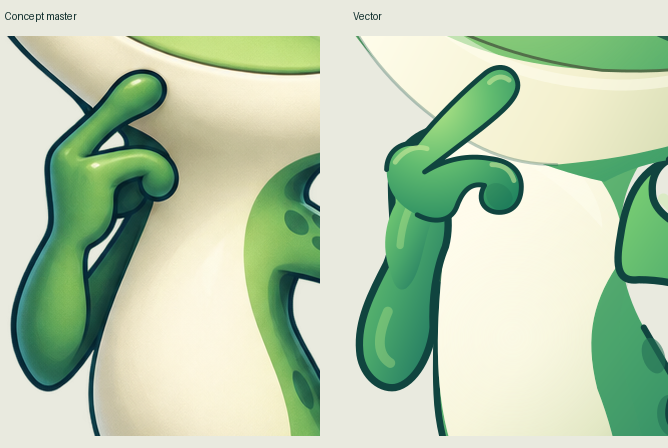
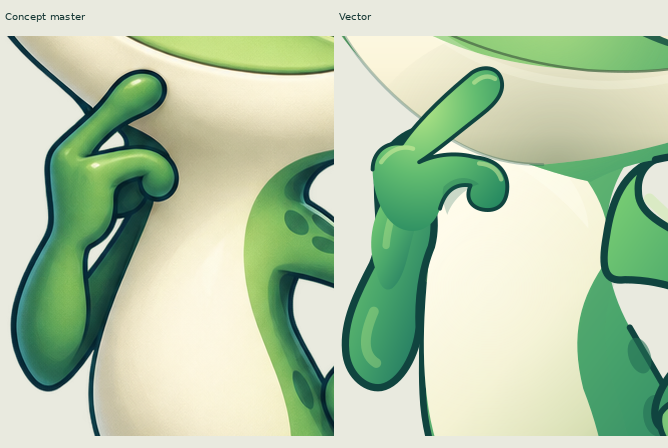
Improve frog anatomy and visual comparison evidence

diff --git a/assets/frog-example/index.html b/assets/frog-example/index.html
@@ -59,12 +59,12 @@
 <linearGradient id="head-fill" x1=".13" y1=".06" x2=".84" y2=".95"><stop stop-color="#c9ed8a"/><stop offset=".24" stop-color="#91d36f"/><stop offset=".64" stop-color="#5eb56b"/><stop offset="1" stop-color="#258d67"/></linearGradient>
     <linearGradient id="torso-fill" x1=".14" y1="0" x2=".9" y2="1"><stop stop-color="#7dc778"/><stop offset=".54" stop-color="#4aa56c"/><stop offset="1" stop-color="#217b61"/></linearGradient>
     <linearGradient id="limb-fill" x1="0" y1="0" x2=".94" y2="1"><stop stop-color="#82d575"/><stop offset=".53" stop-color="#49a66b"/><stop offset="1" stop-color="#176d60"/></linearGradient>
-    <linearGradient id="right-leg-fill" x1=".1" y1="0" x2=".9" y2="1"><stop stop-color="#2b8d63"/><stop offset=".5" stop-color="#4aa96c"/><stop offset="1" stop-color="#277a60"/></linearGradient>
+    <linearGradient id="right-leg-fill" x1=".1" y1="0" x2=".9" y2="1"><stop stop-color="#277e60"/><stop offset=".28" stop-color="#2e8563"/><stop offset=".72" stop-color="#4aa96c"/><stop offset="1" stop-color="#277a60"/></linearGradient>
     <linearGradient id="right-inner-contour" gradientUnits="userSpaceOnUse" x1="0" y1="690" x2="0" y2="825"><stop stop-color="#10443f" stop-opacity="0"/><stop offset=".58" stop-color="#10443f" stop-opacity=".22"/><stop offset="1" stop-color="#10443f" stop-opacity=".9"/></linearGradient>
-    <linearGradient id="cream-fill" gradientUnits="userSpaceOnUse" x1="345" y1="255" x2="650" y2="420"><stop stop-color="#fffdeb"/><stop offset=".53" stop-color="#f3f0ce"/><stop offset="1" stop-color="#c4d0a3"/></linearGradient>
+    <linearGradient id="cream-fill" gradientUnits="userSpaceOnUse" x1="0" y1="238" x2="0" y2="410"><stop stop-color="#fffdec"/><stop offset=".47" stop-color="#fbf5da"/><stop offset=".78" stop-color="#e9e4c4"/><stop offset="1" stop-color="#bec39e"/></linearGradient>
     <linearGradient id="belly-fill" gradientUnits="userSpaceOnUse" x1="392" y1="472" x2="571" y2="640"><stop stop-color="#fffbe9"/><stop offset=".45" stop-color="#f2f0cf"/><stop offset=".79" stop-color="#d4dcae"/><stop offset="1" stop-color="#a9bf8b"/></linearGradient>
-    <radialGradient id="eye-fill" cx=".36" cy=".32" r=".86"><stop stop-color="#fffef4"/><stop offset=".52" stop-color="#f8f5dc"/><stop offset="1" stop-color="#d8dcb7"/></radialGradient>
-    <radialGradient id="iris-fill" cx=".35" cy=".34" r=".75"><stop stop-color="#bce47b"/><stop offset=".55" stop-color="#78bb59"/><stop offset="1" stop-color="#346d4b"/></radialGradient>
+    <radialGradient id="eye-fill" cx=".33" cy=".34" r=".84"><stop stop-color="#fffef2"/><stop offset=".5" stop-color="#fff9df"/><stop offset=".82" stop-color="#e5ddbd"/><stop offset="1" stop-color="#a8bc86"/></radialGradient>
+    <linearGradient id="iris-left-fill" gradientUnits="userSpaceOnUse" x1="420" y1="160" x2="440" y2="236"><stop stop-color="#286746"/><stop offset=".33" stop-color="#77b54d"/><stop offset=".72" stop-color="#c4db49"/><stop offset="1" stop-color="#739940"/></linearGradient><linearGradient id="iris-right-fill" gradientUnits="userSpaceOnUse" x1="661" y1="229" x2="680" y2="303"><stop stop-color="#236848"/><stop offset=".34" stop-color="#73b049"/><stop offset=".76" stop-color="#c7db47"/><stop offset="1" stop-color="#72933f"/></linearGradient>
     <linearGradient id="lid-volume" x1="0" y1="0" x2="0" y2="1"><stop stop-color="#a5df8b"/><stop offset=".54" stop-color="#70bf75"/><stop offset="1" stop-color="#2a7959"/></linearGradient>
     <radialGradient id="head-relief" gradientUnits="userSpaceOnUse" cx="462" cy="233" r="328"><stop stop-color="#d4ee99" stop-opacity=".45"/><stop offset=".57" stop-color="#84c873" stop-opacity=".13"/><stop offset="1" stop-color="#115d52" stop-opacity=".55"/></radialGradient>
     <linearGradient id="left-crest-volume" gradientUnits="userSpaceOnUse" x1="352" y1="104" x2="459" y2="96"><stop stop-color="#0e594e" stop-opacity=".81"/><stop offset=".45" stop-color="#267d5e" stop-opacity=".46"/><stop offset="1" stop-color="#bde88b" stop-opacity="0"/></linearGradient>
@@ -76,7 +76,7 @@
     <radialGradient id="toe-fill" cx=".33" cy=".2" r=".82"><stop stop-color="#c4eb8b"/><stop offset=".31" stop-color="#83d17a"/><stop offset=".68" stop-color="#4dac6b"/><stop offset="1" stop-color="#1d755c"/></radialGradient>
     <radialGradient id="toe-shadow" cx=".48" cy=".15" r=".9"><stop stop-color="#0f6154" stop-opacity="0"/><stop offset=".52" stop-color="#175c50" stop-opacity=".08"/><stop offset="1" stop-color="#0c483f" stop-opacity=".42"/></radialGradient>
     <radialGradient id="knee-relief"><stop stop-color="#a8df80" stop-opacity=".65"/><stop offset=".55" stop-color="#74bf6e" stop-opacity=".23"/><stop offset="1" stop-color="#1e755d" stop-opacity="0"/></radialGradient>
-    <radialGradient id="belly-light" gradientUnits="userSpaceOnUse" cx="453" cy="540" r="252"><stop stop-color="#fffef1" stop-opacity=".9"/><stop offset=".47" stop-color="#fffef1" stop-opacity=".46"/><stop offset="1" stop-color="#fffef1" stop-opacity="0"/></radialGradient>
+    <radialGradient id="belly-light" gradientUnits="userSpaceOnUse" cx="445" cy="500" r="224"><stop stop-color="#fffef1" stop-opacity=".86"/><stop offset=".42" stop-color="#fffef1" stop-opacity=".4"/><stop offset="1" stop-color="#fffef1" stop-opacity="0"/></radialGradient><radialGradient id="crest-left-mass" gradientUnits="userSpaceOnUse" cx="344" cy="121" r="176"><stop stop-color="#06483f" stop-opacity=".91"/><stop offset=".39" stop-color="#155d46" stop-opacity=".82"/><stop offset=".75" stop-color="#2c8151" stop-opacity=".32"/><stop offset="1" stop-color="#7abe69" stop-opacity="0"/></radialGradient><linearGradient id="crest-left-rim" gradientUnits="userSpaceOnUse" x1="410" y1="37" x2="461" y2="137"><stop stop-color="#f0f7b0" stop-opacity=".55"/><stop offset=".44" stop-color="#cde98f" stop-opacity=".47"/><stop offset="1" stop-color="#c4e98d" stop-opacity="0"/></linearGradient><radialGradient id="snout-volume" gradientUnits="userSpaceOnUse" cx="501" cy="273" r="198"><stop stop-color="#d3ef91" stop-opacity=".47"/><stop offset=".42" stop-color="#a6d77e" stop-opacity=".28"/><stop offset="1" stop-color="#a6d77e" stop-opacity="0"/></radialGradient><linearGradient id="right-brow-depth" gradientUnits="userSpaceOnUse" x1="625" y1="187" x2="653" y2="269"><stop stop-color="#174e46"/><stop offset=".55" stop-color="#216b50"/><stop offset="1" stop-color="#3f9360"/></linearGradient><radialGradient id="jaw-chin-volume" gradientUnits="userSpaceOnUse" cx="501" cy="399" r="164"><stop stop-color="#586b4e" stop-opacity=".32"/><stop offset=".58" stop-color="#788964" stop-opacity=".13"/><stop offset="1" stop-color="#788964" stop-opacity="0"/></radialGradient><clipPath id="jaw-prototype-clip"><use href="#premium-jaw"/></clipPath>
     <filter id="ground-soft" x="-30%" y="-150%" width="160%" height="400%"><feGaussianBlur stdDeviation="14"/></filter>
     <path id="head-outline" d="M313 205 C341 181 352 148 366 106 C380 66 398 26 415 27 C437 26 462 76 483 126 C504 174 526 188 558 190 C606 193 652 158 692 159 C719 158 736 175 743 197 C750 221 735 242 718 262 C705 278 706 292 714 310 C722 333 711 350 690 368 C670 383 622 388 581 395 C557 399 541 406 528 413 C499 407 476 398 454 390 C426 379 397 366 374 345 C340 316 309 281 302 249 C298 230 301 218 313 205Z"/>
     <clipPath id="head-clip"><use href="#head-outline"/></clipPath>
@@ -144,7 +144,7 @@
         <path d="M619 935 Q629 944 633 954 M678 939 Q691 949 704 952 M720 916 Q739 916 752 922" fill="none" stroke="#d9f0a0" stroke-width="4.5" stroke-linecap="round" opacity=".5"/>
       </g>
       <path d="M611 877 C594 885 589 900 592 915 C596 931 609 939 610 949 C608 969 615 983 632 986 C651 989 666 973 664 957 C679 975 691 990 707 987 C729 985 744 960 736 942 C756 953 780 952 785 936 C789 922 770 908 745 903 C718 898 690 908 667 898 C646 888 629 873 611 877Z" fill="none" stroke="#10443f" stroke-width="5.4" stroke-linejoin="round"/>
-      <path d="M660 951 Q654 937 645 929 M735 948 Q725 938 716 934" fill="none" stroke="#1c5d50" stroke-width="3" stroke-linecap="round" opacity=".3"/>
+      <path d="M660 951 Q654 937 645 929 M690 916 C709 921 724 931 735 944" fill="none" stroke="#1c5d50" stroke-width="3" stroke-linecap="round" opacity=".4"/>
     </g>
   </g>
 
@@ -156,7 +156,7 @@
     <path d="M406 366 C398 404 402 457 397 491" fill="none" stroke="#b4e88f" stroke-width="10" stroke-linecap="round" opacity=".28"/>
     <path d="M403 348 C427 343 466 356 497 382 C528 408 547 439 542 476 C519 508 511 538 522 582 C541 631 547 677 537 698 C524 704 502 702 483 697 C440 688 413 665 402 626 C388 579 391 526 396 477 C395 415 394 368 403 348Z" fill="url(#belly-fill)"/>
     <path d="M413 379 C444 364 473 374 500 398 C519 416 527 439 526 451 C499 417 453 385 413 379Z" fill="#fffef1" opacity=".38"/>
-    <path d="M403 348 C427 343 466 356 497 382 C528 408 547 439 542 476 C519 508 511 538 522 582 C541 631 547 677 537 698 C524 704 502 702 483 697 C440 688 413 665 402 626 C388 579 391 526 396 477 C395 415 394 368 403 348Z" fill="url(#belly-light)" opacity=".64"/>
+    <path d="M403 348 C427 343 466 356 497 382 C528 408 547 439 542 476 C519 508 511 538 522 582 C541 631 547 677 537 698 C524 704 502 702 483 697 C440 688 413 665 402 626 C388 579 391 526 396 477 C395 415 394 368 403 348Z" fill="url(#belly-light)" opacity=".38"/>
     <path d="M542 479 C522 509 511 542 523 584 C542 631 552 672 540 701 C552 706 560 711 566 716 C571 669 561 626 549 586 C536 547 538 515 551 488Z" fill="#4f9d6a" opacity=".13"/>
     <g id="body-spots" fill="#226e55" opacity=".58"><ellipse cx="568" cy="555" rx="9" ry="15" transform="rotate(-18 568 555)"/><ellipse cx="582" cy="604" rx="11" ry="17" transform="rotate(-8 582 604)"/><ellipse cx="567" cy="647" rx="7" ry="11" transform="rotate(-22 567 647)"/><ellipse cx="449" cy="704" rx="7" ry="11"/><ellipse cx="466" cy="732" rx="9" ry="13"/></g>
   </g>
@@ -199,12 +199,12 @@
 
   <g id="premium-head" data-pivot-x="505" data-pivot-y="372">
     <use href="#head-outline" fill="url(#head-fill)"/>
-    <use href="#head-outline" fill="url(#head-relief)"/>
+    <use href="#head-outline" fill="url(#head-relief)"/><g clip-path="url(#head-clip)"><ellipse cx="501" cy="273" rx="212" ry="159" fill="url(#snout-volume)"/></g>
     <path d="M302 248 C298 230 301 218 313 205 C341 181 352 148 366 106 C380 66 398 26 415 27 C437 26 462 76 483 126 C504 174 526 188 558 190 C606 193 652 158 692 159 C719 158 736 175 743 197 C750 221 735 242 718 262 C705 278 706 292 714 310 C722 333 711 350 690 368 C663 388 616 387 581 395" fill="none" stroke="#103f3d" stroke-width="6" stroke-linecap="round" stroke-linejoin="round"/>
     <g clip-path="url(#head-clip)">
       <path d="M301 253 C332 178 349 87 404 30 C379 95 376 148 397 186 C370 200 338 229 301 253Z" fill="url(#left-crest-volume)"/>
       <path d="M555 192 C619 171 681 149 719 166 C749 179 753 220 718 268 C728 225 698 193 657 191 C618 191 583 202 555 192Z" fill="url(#right-crest-volume)"/>
-      <path d="M363 145 C377 93 407 41 425 40 C442 42 451 85 461 123 C432 92 401 111 379 173Z" fill="#d0ef8f" opacity=".35"/>
+      <ellipse cx="387" cy="122" rx="109" ry="151" fill="url(#crest-left-mass)" opacity=".96"/>
       <path d="M559 190 C618 164 673 149 704 161 C730 173 741 199 731 219 C696 184 639 180 573 205Z" fill="#d4ed8a" opacity=".42"/>
       <path d="M329 271 C348 326 395 360 434 376 L391 379 C349 347 309 305 301 264Z" fill="#155e55" opacity=".3"/>
       <path d="M689 254 C698 284 722 304 709 330 C695 357 657 369 619 377 L664 348 C690 323 681 289 689 254Z" fill="#145c51" opacity=".38"/>
@@ -212,33 +212,33 @@
     </g>
     <path d="M354 161 C363 126 382 102 407 96 C436 89 461 112 473 146 C452 120 434 111 410 114 C385 116 366 134 354 161Z" fill="#1b5f4b" opacity=".93"/>
     <path d="M356 173 C367 137 389 117 413 120 C439 123 459 143 464 169 C448 147 429 136 407 137 C384 138 368 153 356 173Z" fill="url(#lid-volume)" opacity=".95"/>
-    <path d="M546 270 C563 228 615 194 659 192 C692 190 723 209 731 240 C706 223 681 212 649 216 C604 221 571 242 546 270Z" fill="#1f684f" opacity=".92"/>
+    <path d="M546 270 C563 228 615 194 659 192 C692 190 723 209 731 240 C706 223 681 212 649 216 C604 221 571 242 546 270Z" fill="url(#right-brow-depth)" opacity=".97"/>
     <path d="M551 272 C572 236 617 212 654 212 C681 211 705 224 716 247 C688 229 666 225 638 228 C603 232 572 249 551 272Z" fill="url(#lid-volume)" opacity=".85"/>
     <g id="premium-eye-left" data-pivot-x="402" data-pivot-y="190">
       <path d="M349 177 C362 143 390 126 412 129 C446 132 464 164 462 199 C458 230 441 250 412 251 C384 251 361 233 352 211 C346 196 346 188 349 177Z" fill="#164e43" opacity=".88"/>
       <path d="M355 179 C366 149 388 137 409 138 C438 140 455 166 454 195 C453 223 436 246 413 247 C388 247 369 232 358 209 C353 198 351 188 355 179Z" fill="url(#eye-fill)"/>
-      <g id="premium-pupil-left"><ellipse cx="427" cy="200" rx="25" ry="39" fill="url(#iris-fill)"/><ellipse cx="435" cy="195" rx="19" ry="38" fill="#092f36"/><circle cx="430" cy="170" r="6.5" fill="#fff"/><circle cx="443" cy="220" r="2.5" fill="#d7efd4" opacity=".62"/></g>
+      <g id="premium-pupil-left"><ellipse cx="427" cy="200" rx="25" ry="39" fill="url(#iris-left-fill)"/><ellipse cx="435" cy="195" rx="19" ry="38" fill="#092f36"/><circle cx="430" cy="170" r="6.5" fill="#fff"/><circle cx="443" cy="220" r="2.5" fill="#d7efd4" opacity=".62"/></g>
       <path d="M353 179 C367 149 388 134 411 135 C437 137 453 157 456 177 C444 154 426 147 409 147 C383 147 364 161 353 179Z" fill="#4d9e62" opacity=".77"/>
       <path id="premium-lid-left" d="M350 185 C365 133 427 123 450 172 C442 173 432 178 421 185 C397 193 372 192 350 185Z" fill="#7ac77a" stroke="#175947" stroke-width="4" opacity="0"/>
     </g>
     <g id="premium-eye-right" data-pivot-x="608" data-pivot-y="253">
       <path d="M552 275 C570 234 618 210 662 214 C697 217 711 247 710 277 C707 305 678 316 639 312 C602 309 570 296 553 284Z" fill="#185044" opacity=".84"/>
       <path d="M560 273 C578 239 620 219 660 223 C687 227 701 249 700 274 C697 300 674 310 639 308 C604 305 576 292 561 280Z" fill="url(#eye-fill)"/>
-      <g id="premium-pupil-right"><ellipse cx="670" cy="267" rx="27" ry="38" fill="url(#iris-fill)"/><ellipse cx="679" cy="266" rx="20" ry="37" fill="#092f36"/><circle cx="669" cy="241" r="6.5" fill="#fff"/><circle cx="687" cy="285" r="2.5" fill="#d7efd4" opacity=".62"/></g>
+      <g id="premium-pupil-right"><ellipse cx="670" cy="267" rx="27" ry="38" fill="url(#iris-right-fill)"/><ellipse cx="679" cy="266" rx="20" ry="37" fill="#092f36"/><circle cx="669" cy="241" r="6.5" fill="#fff"/><circle cx="687" cy="285" r="2.5" fill="#d7efd4" opacity=".62"/></g>
       <path d="M554 275 C573 236 617 215 660 217 C685 218 704 232 707 251 C687 233 663 226 639 229 C601 233 573 251 554 275Z" fill="#3b9b62" opacity=".66"/>
       <path id="premium-lid-right" d="M559 274 C582 228 649 210 700 250 C666 253 627 263 594 277 C576 283 563 281 559 274Z" fill="#65b86e" stroke="#175947" stroke-width="4" opacity="0"/>
     </g>
     <path d="M354 181 C370 143 393 128 414 132 C437 135 451 151 458 177" fill="none" stroke="#153d3b" stroke-width="5.4" stroke-linecap="round" opacity=".82"/>
     <path d="M558 274 C583 231 629 214 659 218 C681 220 697 233 703 255" fill="none" stroke="#153d3b" stroke-width="5.4" stroke-linecap="round" opacity=".82"/>
     <path id="premium-jaw" d="M321 230 C365 291 437 318 526 322 C574 324 598 321 624 315 C638 311 656 306 668 309 C677 312 676 331 665 344 C642 369 596 381 554 390 C529 395 509 397 489 399 C450 399 421 385 388 360 C351 331 318 291 312 258 C308 240 312 231 321 230Z" fill="url(#cream-fill)"/>
-    <path id="premium-jaw-outline" d="M312 254 C316 289 351 332 388 360 C419 385 449 399 489 399" fill="none" stroke="#145047" stroke-width="2.5" stroke-linecap="round" opacity=".3"/>
-    <path d="M326 244 C349 242 372 268 398 289 C436 318 480 332 537 334 C575 335 614 324 644 317" fill="none" stroke="#fffef0" stroke-width="9" stroke-linecap="round" opacity=".5"/>
-    <g id="premium-mouth"><path d="M323 233 C366 275 435 311 526 322 C574 324 599 321 622 315" fill="none" stroke="#526e49" stroke-width="2.4" stroke-linecap="round"/><path d="M620 315 Q628 309 632 319" fill="none" stroke="#415f42" stroke-width="2.1" stroke-linecap="round"/></g>
+    <g clip-path="url(#jaw-prototype-clip)"><ellipse cx="501" cy="399" rx="164" ry="120" fill="url(#jaw-chin-volume)"/></g><path id="premium-jaw-outline" d="M312 254 C316 289 351 332 388 360 C419 385 449 399 489 399" fill="none" stroke="#145047" stroke-width="2.5" stroke-linecap="round" opacity=".3"/>
+    <path d="M326 244 C349 242 372 268 398 289 C436 318 480 332 537 334 C575 335 614 324 644 317" fill="none" stroke="#fffef0" stroke-width="7" stroke-linecap="round" opacity=".24"/>
+    <g id="premium-mouth"><path d="M323 233 C370 278 438 313 526 322 C574 325 601 321 622 315" fill="none" stroke="#496946" stroke-width="2.1" stroke-linecap="round" opacity=".76"/><path d="M620 315 Q628 309 632 319" fill="none" stroke="#415f42" stroke-width="2.1" stroke-linecap="round"/></g>
     <g id="premium-mouth-aha" opacity="0"><path d="M517 335 C523 325 545 324 555 334 C564 343 562 361 550 371 C540 379 524 374 518 363 C513 353 513 344 517 335Z" fill="#174940" stroke="#496a48" stroke-width="2.8"/><path d="M526 360 Q538 368 552 359 Q550 371 540 373 Q531 373 526 360Z" fill="#d9917d" opacity=".86"/><path d="M521 339 Q526 333 532 333" fill="none" stroke="#aacb9a" stroke-width="2.8" stroke-linecap="round" opacity=".7"/></g>
     <path id="premium-mouth-think" d="M509 345 Q535 351 553 341" fill="none" stroke="#174840" stroke-width="4" stroke-linecap="round" opacity="0"/>
     <g id="premium-mouth-grin" opacity="0"><path d="M485 334 Q538 374 590 335 Q577 377 540 383 Q506 376 485 334Z" fill="#174840"/><path d="M496 341 Q539 358 579 340" fill="none" stroke="#fffce9" stroke-width="6" stroke-linecap="round"/></g>
     <g id="premium-nostrils" fill="#194b42"><ellipse cx="444" cy="258" rx="4" ry="8" transform="rotate(-5 444 258)"/><ellipse cx="492" cy="272" rx="6" ry="4" transform="rotate(-24 492 272)"/></g>
-    <path d="M406 58 Q420 39 431 43 M647 174 Q682 158 706 173" fill="none" stroke="#e2f7ae" stroke-width="6" stroke-linecap="round" opacity=".58"/>
+    <path d="M412 37 C427 46 439 73 449 101 C454 115 458 125 462 137" fill="none" stroke="url(#crest-left-rim)" stroke-width="6" stroke-linecap="round" opacity=".85"/><path d="M647 174 Q682 158 706 173" fill="none" stroke="#e2f7ae" stroke-width="6" stroke-linecap="round" opacity=".58"/>
   </g>
 
   <g id="premium-forearm-left" data-pivot-x="360" data-pivot-y="475">
@@ -247,10 +247,10 @@
   </g>
 
   <g id="premium-hand-left" data-pivot-x="417" data-pivot-y="394">
-    <path id="premium-hand-left-shape" d="M350 403 C350 389 361 380 374 382 C390 361 415 337 431 324 C443 315 455 321 457 332 C459 344 444 356 428 369 C411 382 393 396 381 405 C399 394 417 391 434 394 C452 396 460 405 460 417 C460 430 453 438 442 438 C430 438 423 428 430 416 C417 413 411 423 407 434 C402 446 388 447 375 440 C358 432 350 419 350 403Z" fill="url(#left-hand-fill)"/>
-    <path d="M350 403 C350 389 361 380 374 382 C390 361 415 337 431 324 C443 315 455 321 457 332 C459 344 444 356 428 369 C411 382 393 396 381 405 C399 394 417 391 434 394 C452 396 460 405 460 417 C460 430 453 438 442 438 C430 438 423 428 430 416 C417 413 411 423 407 434 C402 446 388 447 375 440" fill="none" stroke="#10443f" stroke-width="4" stroke-linecap="round" stroke-linejoin="round"/>
-    <path d="M432 417 C441 409 453 419 453 427 C452 435 442 439 436 433 C432 430 430 423 432 417Z" fill="#165f4c" opacity=".23"/>
-    <path d="M357 397 C364 387 374 383 383 386 M434 332 Q442 324 450 330 M436 399 Q450 399 454 412" fill="none" stroke="#d7ef9e" stroke-width="4" stroke-linecap="round" opacity=".54"/>
+    <path id="premium-hand-left-shape" d="M350 403 C350 389 361 380 374 382 C389 360 415 337 431 324 C440 318 452 319 455 329 C458 339 452 348 439 358 C421 372 401 389 388 397 C403 390 419 389 434 393 C452 395 460 405 460 417 C460 430 453 437 442 436 C431 435 425 427 430 416 C417 414 409 421 405 435 C400 450 388 456 375 452 C359 447 350 423 350 403Z" fill="url(#left-hand-fill)"/>
+    <path d="M350 403 C350 389 361 380 374 382 C389 360 415 337 431 324 C440 318 452 319 455 329 C458 339 452 348 439 358 C421 372 401 389 388 397 C403 390 419 389 434 393 C452 395 460 405 460 417 C460 430 453 437 442 436 C431 435 425 427 430 416 C417 414 409 421 405 435" fill="none" stroke="#10443f" stroke-width="3.2" stroke-linecap="round" stroke-linejoin="round"/>
+    <path d="M408 417 C417 408 429 408 437 415 C425 418 414 430 411 440 C408 433 406 423 408 417Z" fill="#145f50" opacity=".23"/>
+    <path d="M357 397 C364 387 374 383 383 386 M433 332 Q442 324 450 329 M437 398 Q451 399 455 411" fill="none" stroke="#d7ef9e" stroke-width="3.6" stroke-linecap="round" opacity=".53"/>
   </g>
   </g>
                 </g>

diff --git a/assets/frog-example/README.md b/assets/frog-example/README.md
@@ -67,25 +67,25 @@ A página em `index.html` usa o vetor premium e oferece pausa, retomada, replay,
 
 ### Estado da revisão visual
 
-Em `2026-09-28`, revisões independentes sucessivas deram **79/100**, **82/100**, **76/100** e **81/100** a versões intermediárias. A versão presente suavizou a origem da coxa, aprofundou o vale do pé direito e redesenhou a boca O na mandíbula. Uma nova revisão independente atribuiu **82/100** ao SVG atual: silhueta 28/30, anatomia/pose 20/25, rosto 17/20, paleta/material 10/15 e detalhes/oclusão 7/10. O corte preto central e o ponto no focinho foram corrigidos, mas a mão no queixo ainda lê como Y/gancho, a coxa direita como faixa geométrica, o pé direito como base larga e o rosto e material seguem mais planos que a imagem mestre. **A meta visual de 95/100 não passou.**
+Em `2026-09-28`, revisões independentes deram **79/100**, **82/100**, **76/100**, **81/100** e **82/100** a versões anteriores. Depois delas, foram alterados o sombreamento do rosto, o contorno da mão no queixo, o gradiente da coxa e um vinco do pé direito. A revisão independente **desta versão** deu **83/100**: silhueta 28/30, anatomia/pose 20/25, rosto 17/20, paleta/material 11/15 e detalhes/oclusão 7/10. A crista, a mandíbula e a ligação da perna direita melhoraram, mas a mão em escala de cena ainda tende a Y, a coxa e os pés têm volumes geométricos, e o olhar/sorriso diferem do master. A sombra escura da crista também ficou rígida em uma área. **A meta visual de 95/100 não passou.**
 
-Na versão SVG presente, `scripts/render_svg_for_comparison.cjs` e `scripts/measure_silhouette.py` mediram **95,06% de IoU de silhueta** contra `concept-master.png`, em canvas de `1254 × 1254` com alfa ≥ 128. A medida supera o mínimo de 95% **somente no contorno externo**; o JSON retorna `overall_character_gate: not_evaluated`. A [comparação completa](qa/2026-09-28/side-by-side.png), a [sobreposição](qa/2026-09-28/overlay-50.png), o [resultado JSON](qa/2026-09-28/silhouette-result.json) e os closes abaixo registram esta versão, não as intermediárias. O personagem **não está aprovado visualmente**; IoU não é nota de fidelidade total.
+Na versão SVG presente, `scripts/render_svg_for_comparison.cjs` e `scripts/measure_silhouette.py` mediram **95,06% de IoU de silhueta** (`0,950648`) contra `concept-master.png`, em canvas de `1254 × 1254` com alfa ≥ 128. A medida supera o mínimo de 95% **somente no contorno externo**; o JSON retorna `overall_character_gate: not_evaluated`. A [comparação completa](qa/2026-09-28/side-by-side.png), a [sobreposição](qa/2026-09-28/overlay-50.png), o [resultado JSON](qa/2026-09-28/silhouette-result.json), a [escala de cena](qa/2026-09-28/scene-scale.png) e os closes abaixo foram regenerados do SVG desta iteração. O personagem **não está aprovado visualmente**; IoU não é nota de fidelidade total.
 
 | Parte | Evidência desta versão | Estado e defeito que ainda exige revisão |
 | --- | --- | --- |
 | Olho esquerdo | [Rosto em 100%](qa/2026-09-28/eyes-mouth.png) | **Pendente.** Globo mais aberto e uniforme que o master; volume da pálpebra e relação íris/pupila ainda diferem. |
 | Olho direito | [Rosto em 100%](qa/2026-09-28/eyes-mouth.png) | **Pendente.** Arco superior e base ainda geométricos; inclinação e sombra interna precisam aproximar o raster. |
-| Boca e mandíbula | [Rosto em 100%](qa/2026-09-28/eyes-mouth.png), [boca O estática](qa/2026-09-28/mouth-aha-static.png) | **Pendente.** A abertura de descoberta está no marfim e foi confirmada no navegador em 2,3 s. Linha do sorriso, volume da mandíbula e desenho da abertura seguem mais planos que o master. |
+| Boca e mandíbula | [Rosto em 100%](qa/2026-09-28/eyes-mouth.png), [boca O estática](qa/2026-09-28/mouth-aha-static.png) | **Pendente.** A abertura de descoberta está no marfim e foi conferida na cena em 2,3 s. A sombra melhorou, mas o sorriso segue uma linha fina e a mandíbula parece uma faixa lisa diante do master. |
 | Tronco e quadril | [Corpo inferior](qa/2026-09-28/hips-legs-feet.png) | **Pendente.** A coxa direita inicia com cor próxima ao tronco e contorno interno progressivo, sem corte preto central; ainda é mais geométrica que no master. |
-| Mão no queixo | [Close da mão](qa/2026-09-28/hand-left.png) | **Pendente.** Indicador, palma e dedo curvado formam um único contorno sem laço fechado. A última crítica ainda lê a mão como Y/gancho; faltam atuação e volume de dedo/polegar mais próximos do master. |
+| Mão no queixo | [Close da mão](qa/2026-09-28/hand-left.png) | **Pendente.** O contorno foi refinado sem laço fechado, mas a revisão ainda o lê como Y/gancho na escala de cena; dedo curvado e palma não têm o mesmo volume e oclusão da referência. |
 | Mão na cintura | [Close da mão](qa/2026-09-28/hands-right.png) | **Pendente.** A revisão reconheceu duas pontas, mas a base em V parece pinça sem volume da palma ou juntas; conferir também as três poses do braço. |
-| Pernas e pés | [Quadril a pés](qa/2026-09-28/hips-legs-feet.png), [escala de cena](qa/2026-09-28/scene-scale.png) | **Pendente.** A revisão confirmou três dedos em cada pé e uma ligação contínua no quadril. O pé esquerdo ainda é plano; a base do direito continua larga, e a mudança de plano da coxa para a canela é mais abrupta que no master. |
+| Pernas e pés | [Quadril a pés](qa/2026-09-28/hips-legs-feet.png), [escala de cena](qa/2026-09-28/scene-scale.png) | **Pendente.** Os três dedos de cada pé são legíveis; o novo vinco ajuda no direito. A revisão ainda vê o pé esquerdo plano, base direita larga e transição da coxa para canela mais abrupta que no master. |
 
 Esses estados são deliberadamente separados da aprovação da silhueta. Inspecionar também as poses extremas da cena após sincronizar o SVG no HTML.
 
 ### Medição de quadros no navegador
 
-O script [`scripts/measure_frog_trace.cjs`](../../scripts/measure_frog_trace.cjs) permite repetir uma comparação A/B headless de cerca de `2,5 s` em Chrome, janela `1600 × 1000` e viewport interno `1600 × 857`. Sem filmstrip, a coleta registrou **151 eventos `DrawFrame` e 0 `DroppedFrame`**; com filmstrip, **109 `DrawFrame`, 42 `DroppedFrame` e 110 capturas**. Nos 109 pares do recorte do personagem (`x=976–1222`, `y=246–736` em pixels CSS), **107** mudaram acima do limiar de diferença RGB média `0,2/255`, **1** repetiu exatamente e **1** foi quase imóvel. A faísca foi contada em região separada; o alvo permaneceu estático nesse trecho.
+O script [`scripts/measure_frog_trace.cjs`](../../scripts/measure_frog_trace.cjs) permite repetir uma comparação A/B headless de cerca de `2,5 s` em Chrome, janela `1600 × 1000` e viewport interno `1600 × 857`. Em uma **execução anterior a esta iteração**, sem filmstrip, a coleta registrou **151 eventos `DrawFrame` e 0 `DroppedFrame`**; com filmstrip, **109 `DrawFrame`, 42 `DroppedFrame` e 110 capturas**. Nos 109 pares do recorte do personagem (`x=976–1222`, `y=246–736` em pixels CSS), **107** mudaram acima do limiar de diferença RGB média `0,2/255`, **1** repetiu exatamente e **1** foi quase imóvel. A faísca foi contada em região separada; o alvo permaneceu estático nesse trecho. Repetir a medição após sincronizar esta versão no HTML.
 
 Filmstrip tem custo próprio e alterou o resultado A/B. `DrawFrame` e `DroppedFrame` são eventos do compositor, enquanto a comparação de imagens testa alteração visível do recorte; nenhum desses números isolado prova 60 fps exibidos do personagem em um celular ou mede a varredura física da tela. Repetir no navegador e dispositivo de destino, com e sem captura, e registrar as retenções de imagem.
 
